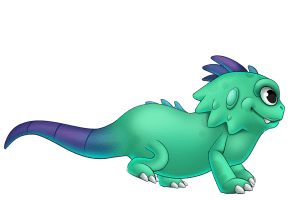
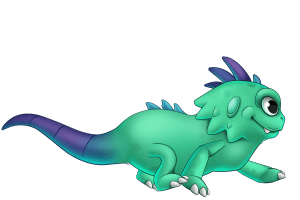
feat: Add character animication

Changed region(s): [[0.0, 0.27, 0.96, 0.99], [0.42, 0.66, 0.51, 0.72]]

diff --git a/screens/GameBoard/components/Character/index.tsx b/screens/GameBoard/components/Character/index.tsx
@@ -1,10 +1,8 @@
 import React from "react";
-import { Image, View } from "react-native";
+import { Image } from "react-native";
 import Matter from "matter-js";
-import { JumpingAnimation } from "../../../../assets/animations/JumpingAnimation";
-
-const Character = (props: { size: any; body: any; color: any }) => {
-  const { size, body, color } = props;
+const Character = (props: { size: any; body: any; color: any; image: any }) => {
+  const { size, body, color, image } = props;
 
   const width = size[0];
   const height = size[1];
@@ -12,24 +10,23 @@ const Character = (props: { size: any; body: any; color: any }) => {
   const y = body.position.y - height / 2;
 
   return (
-    <View
+    <Image
       style={[
         {
           position: "absolute",
-          left: x,
-          top: y,
-          width: width,
-          height: height,
-          backgroundColor: "black",
+          left: x - 80,
+          top: y - 20,
+          width: 100,
+          height: 50,
         },
       ]}
-      // source={JumpingAnimation}
-      // resizeMode="stretch"
+      source={image}
+      resizeMode="stretch"
     />
   );
 };
 
-export default (world, color, pos, size) => {
+export default (world, color, pos, size, image) => {
   const initialCharacter = Matter.Bodies.rectangle(
     pos.x,
     pos.y,
@@ -43,6 +40,7 @@ export default (world, color, pos, size) => {
     body: initialCharacter,
     size: [size.width, size.height],
     color: color,
+    image,
     renderer: Character,
   };
 };

diff --git a/screens/GameBoard/systems/character.ts b/screens/GameBoard/systems/character.ts
@@ -1,16 +1,34 @@
 import Matter from "matter-js";
 import { Dimensions } from "react-native";
-import { FLOOR_Y } from "../utils/constants";
+import { runningAnimation } from "../../../assets/animations/runningAnimation";
+import Character from "../components/Character";
 import { getRandom } from "../utils/random";
 
 const { width } = Dimensions.get("screen");
 let isFlying = false;
 let collisionNo = 0;
+let characterImageNo = 0;
 
 const UpdateCharacter = (entities, { dispatch, touches, time }) => {
   if (entities["Fruit"].body.position.x > width) collisionNo = 0;
 
   const engine = entities.physics.engine;
+  let world = entities.physics.world;
+
+  characterImageNo++;
+
+  if ([0, 6].includes(characterImageNo % 12) && !isFlying) {
+    const newY = entities["Character"].body.position.y;
+    Matter.World.remove(world, entities["Character"].body);
+    entities["Character"] = Character(
+      world,
+      "black",
+      { x: 150, y: newY },
+      { height: 30, width: 10 },
+      runningAnimation[(characterImageNo % 12) / 6]
+    );
+  }
+
   touches
     .filter((t) => t.type === "press")
     .forEach((t) => {
@@ -22,6 +40,7 @@ const UpdateCharacter = (entities, { dispatch, touches, time }) => {
         isFlying = true;
       }
     });
+
   Matter.Engine.update(engine, time.delta);
 
   Matter.Events.on(engine, "collisionStart", (event) => {

diff --git a/screens/GameBoard/entities/index.ts b/screens/GameBoard/entities/index.ts
@@ -13,6 +13,7 @@ import {
   SMALL_OBSTACLE_HEIGHT,
   SMALL_OBSTACLE_WIDTH,
 } from "../utils/constants";
+import { runningAnimation } from "../../../assets/animations/runningAnimation";
 
 const { width, height } = Dimensions.get("screen");
 
@@ -29,7 +30,8 @@ export default () => {
       world,
       "black",
       { x: 150, y: -height },
-      { height: 30, width: 10 }
+      { height: 30, width: 10 },
+      runningAnimation[0]
     ),
     Floor: Floor(
       world,

diff --git a/assets/animations/runningAnimation.ts b/assets/animations/runningAnimation.ts
@@ -1,11 +1,4 @@
 export const runningAnimation = [
   require("./running/1.png"),
   require("./running/2.png"),
-  require("./running/3.png"),
-  require("./running/4.png"),
-  require("./running/5.png"),
-  require("./running/6.png"),
-  require("./running/7.png"),
-  require("./running/8.png"),
-  require("./running/9.png"),
 ];
